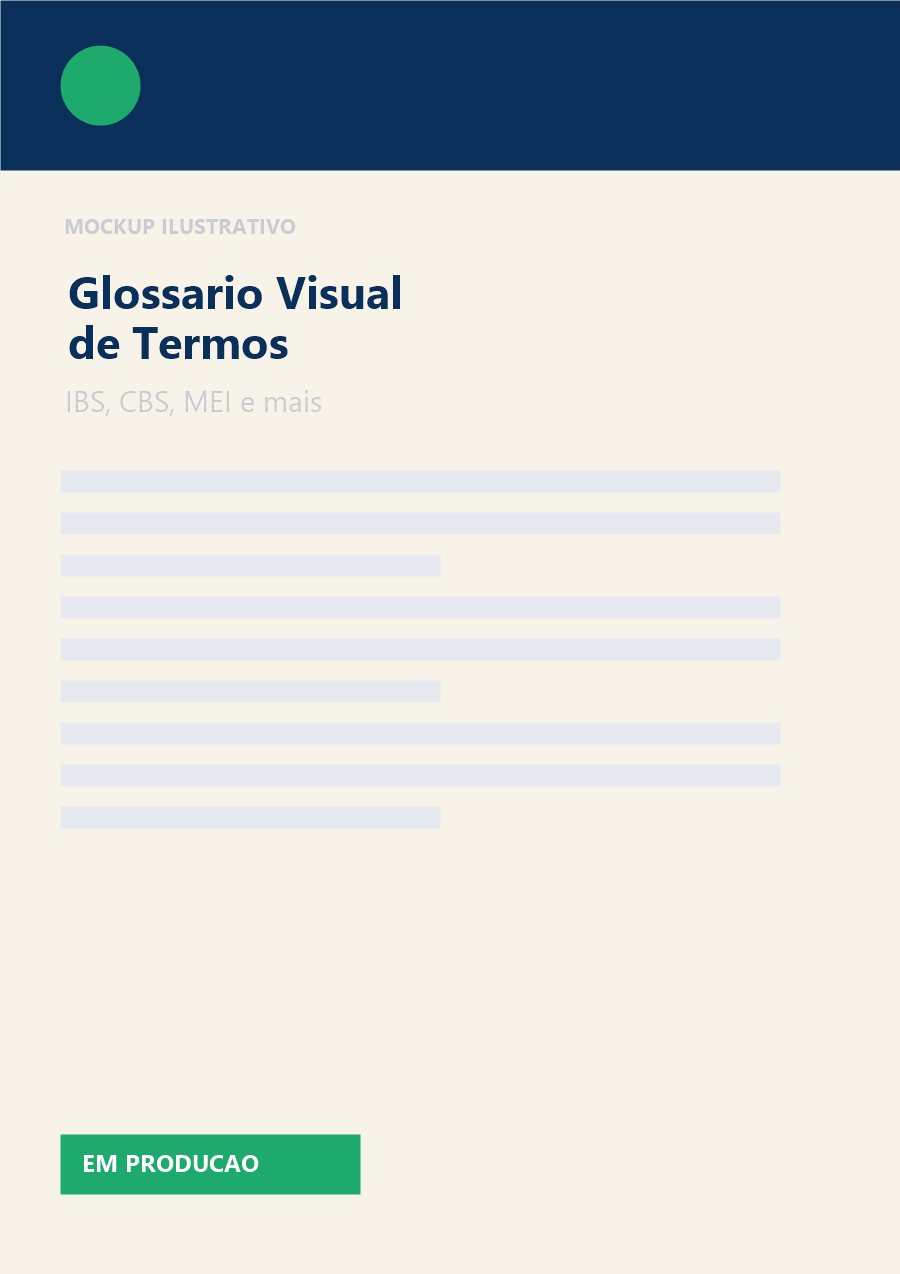
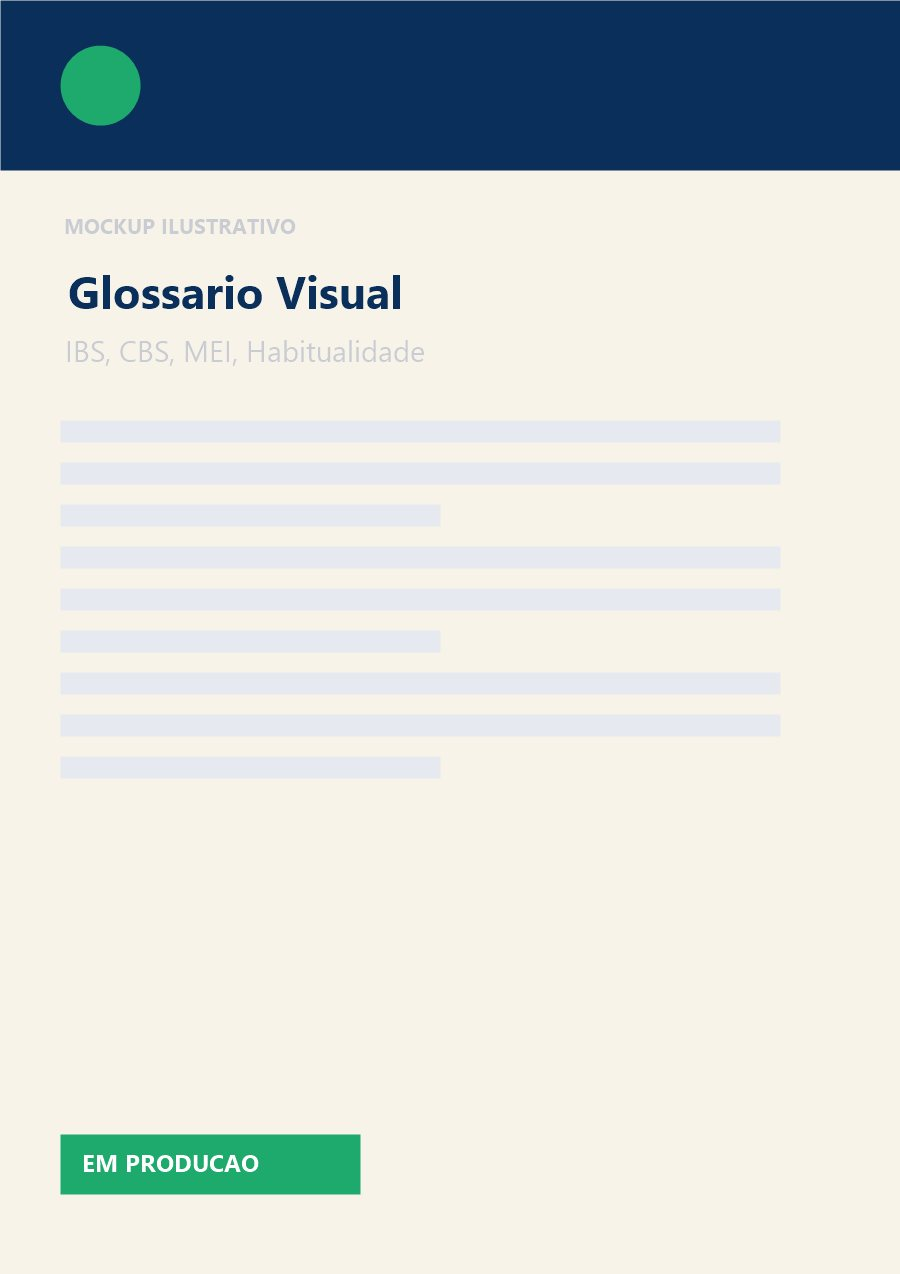
Ground site copy in the real CNPJ Técnico product
Found the live product at guia-cnp-jtecnico.vercel.app — an
interactive web guide (organograma, live checklist, timeline,
glossary, impact simulator, comparison table, per-profession
breakdown, FAQ), not a static PDF. It has no real photos to reuse
(only a 192px app icon; everything is HTML/CSS/JS), so instead of
copying images, aligned all site copy with its actual accurate
content and expanded the bonus lineup from the earlier 5-item draft
to the real 7 bonuses it ships:
Checklist, Linha do Tempo, Glossário, Simulador de Impacto,
Comparativo Pessoa Física x CNPJ Técnico, O Que Muda por Profissão,
20 Perguntas Frequentes.

Rewrote hero (precise criteria: R$40.500/ano, habitualidade,
independent of profession, Art. 59 da LC 214/2025), added the
"📅 Prazo oficial" pill (light style nod to the reference site,
existing palette), features, audience personas (added médicos,
personal trainers, quem aluga imóveis — dropped the inaccurate "MEI
perto do limite" card since MEI is explicitly exempt), core-guide
summary (now the 5-point organograma), full bonus section (headline
+ kit list + 7 grid cards, reusing 5 placeholder images across 7
slots per "don't use too many images"), pricing checklist, sources
citation (Comitê Gestor do IBS), FAQ, testimonials, and the two
leftover "planilha de enquadramento" mentions renamed to "simulador
de impacto" to match the real bonus name. Regenerated the 6
placeholder mockups with accurate titles.

Changed region(s): [[0.0622, 0.2449, 0.3422, 0.3367], [0.3733, 0.2755, 0.4356, 0.3061]]

diff --git a/index.html b/index.html
@@ -327,9 +327,10 @@
 <section class="hero">
   <div class="wrap hero-grid">
     <div class="hero-intro">
-      <span class="eyebrow">Guia para autônomos e prestadores de serviço · CNPJ Técnico</span>
-      <h1>Guia Fácil do CNPJ Técnico <span>descubra se você precisa se cadastrar antes de 1º de janeiro de 2027</span></h1>
-      <p class="lead">A Reforma Tributária criou um novo cadastro simplificado da Receita Federal, o "CNPJ Técnico". Se você trabalha por conta própria e presta serviço, pode ser que precise se cadastrar — e o prazo já tem data marcada. Este guia explica quem precisa, quando e como funciona, sem juridiquês.</p>
+      <span class="eyebrow">Reforma Tributária · Edição simplificada</span>
+      <h1>Guia Fácil do CNPJ Técnico <span>descubra se você precisa se cadastrar, quando isso vira obrigatório e o que muda na prática</span></h1>
+      <p class="lead">A profissão não importa: vale pra médico, personal trainer, motorista de app, revendedor ou quem aluga mais de um imóvel. O critério real é ser contribuinte de IBS/CBS com atividade habitual acima de R$ 40.500/ano. Este guia mostra se isso é você — sem juridiquês.</p>
+      <span class="eyebrow" style="background:rgba(245,165,36,.14);color:#8A5A00;margin-top:14px;">📅 Prazo oficial: 1º de janeiro de 2027</span>
     </div>
     <div class="hero-visual">
       <div class="hero-visual-inner">
@@ -340,9 +341,9 @@
     </div>
     <div class="hero-rest">
       <ul class="hero-points">
-        <li><svg width="18" height="18" viewBox="0 0 24 24" fill="none"><circle cx="12" cy="12" r="12" fill="#1FAA6D"/><path d="M7 12.5l3 3 7-7" stroke="#fff" stroke-width="2" stroke-linecap="round" stroke-linejoin="round"/></svg> Checklist visual pra descobrir se você se enquadra</li>
-        <li><svg width="18" height="18" viewBox="0 0 24 24" fill="none"><circle cx="12" cy="12" r="12" fill="#1FAA6D"/><path d="M7 12.5l3 3 7-7" stroke="#fff" stroke-width="2" stroke-linecap="round" stroke-linejoin="round"/></svg> Linha do tempo com as datas oficiais da Reforma</li>
-        <li><svg width="18" height="18" viewBox="0 0 24 24" fill="none"><circle cx="12" cy="12" r="12" fill="#1FAA6D"/><path d="M7 12.5l3 3 7-7" stroke="#fff" stroke-width="2" stroke-linecap="round" stroke-linejoin="round"/></svg> Planilha pra calcular se seu faturamento passa do limite de isenção</li>
+        <li><svg width="18" height="18" viewBox="0 0 24 24" fill="none"><circle cx="12" cy="12" r="12" fill="#1FAA6D"/><path d="M7 12.5l3 3 7-7" stroke="#fff" stroke-width="2" stroke-linecap="round" stroke-linejoin="round"/></svg> Checklist "preciso ou não?" com veredito na hora</li>
+        <li><svg width="18" height="18" viewBox="0 0 24 24" fill="none"><circle cx="12" cy="12" r="12" fill="#1FAA6D"/><path d="M7 12.5l3 3 7-7" stroke="#fff" stroke-width="2" stroke-linecap="round" stroke-linejoin="round"/></svg> Linha do tempo oficial: prorrogação, cadastro e obrigatoriedade</li>
+        <li><svg width="18" height="18" viewBox="0 0 24 24" fill="none"><circle cx="12" cy="12" r="12" fill="#1FAA6D"/><path d="M7 12.5l3 3 7-7" stroke="#fff" stroke-width="2" stroke-linecap="round" stroke-linejoin="round"/></svg> Simulador de impacto pra ver quanto isso pode custar pra você</li>
       </ul>
       <div class="hero-actions">
         <a href="#planos" class="btn btn-primary">Quero acessar o material →</a>
@@ -370,7 +371,7 @@
         <button class="gallery-item" data-full="img/ph-checklist.jpg"><img src="img/ph-checklist.jpg" alt="Mockup ilustrativo: Checklist Preciso ou não do CNPJ Técnico" loading="lazy"><span>Checklist</span></button>
         <button class="gallery-item" data-full="img/ph-linha-tempo.jpg"><img src="img/ph-linha-tempo.jpg" alt="Mockup ilustrativo: Linha do Tempo da Reforma" loading="lazy"><span>Linha do tempo</span></button>
         <button class="gallery-item" data-full="img/ph-glossario.jpg"><img src="img/ph-glossario.jpg" alt="Mockup ilustrativo: Glossário Visual de Termos" loading="lazy"><span>Glossário visual</span></button>
-        <button class="gallery-item" data-full="img/ph-planilha.jpg"><img src="img/ph-planilha.jpg" alt="Mockup ilustrativo: Planilha de Enquadramento" loading="lazy"><span>Planilha de enquadramento</span></button>
+        <button class="gallery-item" data-full="img/ph-planilha.jpg"><img src="img/ph-planilha.jpg" alt="Mockup ilustrativo: Simulador de Impacto" loading="lazy"><span>Simulador de impacto</span></button>
         <button class="gallery-item" data-full="img/ph-comparativo.jpg"><img src="img/ph-comparativo.jpg" alt="Mockup ilustrativo: Comparativo Pessoa Física x CNPJ Técnico" loading="lazy"><span>Comparativo</span></button>
       </div>
       <button class="car-nav next" id="carNext" aria-label="Próximo">›</button>
@@ -403,8 +404,8 @@
       </div>
       <div class="feat-card">
         <div class="feat-icon"><svg width="22" height="22" viewBox="0 0 24 24" fill="none"><rect x="4" y="4" width="7" height="7" rx="1.5" stroke="#1FAA6D" stroke-width="2"/><rect x="13" y="4" width="7" height="7" rx="1.5" stroke="#1FAA6D" stroke-width="2"/><rect x="4" y="13" width="7" height="7" rx="1.5" stroke="#1FAA6D" stroke-width="2"/><rect x="13" y="13" width="7" height="7" rx="1.5" stroke="#1FAA6D" stroke-width="2"/></svg></div>
-        <h3>Planilha de enquadramento</h3>
-        <p>Calcule se seu faturamento ultrapassa o limite de isenção de R$ 40,5 mil/ano.</p>
+        <h3>Simulador de impacto</h3>
+        <p>Informe seu faturamento e veja se você se enquadra e quanto isso pode custar.</p>
       </div>
       <div class="feat-card">
         <div class="feat-icon"><svg width="22" height="22" viewBox="0 0 24 24" fill="none"><path d="M12 2l3 6 6 1-4.5 4 1 6-5.5-3-5.5 3 1-6L3 9l6-1 3-6z" stroke="#1FAA6D" stroke-width="1.6" stroke-linejoin="round"/></svg></div>
@@ -426,7 +427,7 @@
           <div class="sample-note">💡 Esta é uma prévia ilustrativa do material. O guia final está em produção e as páginas reais serão publicadas em breve.</div>
         </div>
         <div class="sample-visual">
-          <img src="img/ph-checklist.jpg" alt="Mockup ilustrativo: Checklist Preciso ou não do CNPJ Técnico" loading="lazy" style="border-radius:10px;">
+          <img src="img/ph-capa.jpg" alt="Mockup ilustrativo: organograma O que é o CNPJ Técnico" loading="lazy" style="border-radius:10px;">
         </div>
       </div>
     </div>
@@ -441,11 +442,11 @@
     </div>
     <div class="who-grid">
       <div class="who-card"><h3>🚗 Motoristas e entregadores de app</h3><p>Entender se a renda por aplicativo entra na obrigatoriedade do CNPJ Técnico.</p></div>
-      <div class="who-card"><h3>💻 Freelancers e prestadores de serviço</h3><p>Saber se precisa se formalizar antes do prazo de janeiro de 2027.</p></div>
+      <div class="who-card"><h3>🩺 Médicos e outros profissionais liberais</h3><p>Saber se atendimento particular avulso passa a exigir o novo cadastro.</p></div>
+      <div class="who-card"><h3>💪 Personal trainers e criadores de conteúdo</h3><p>A categoria com maior risco de ser pega de surpresa — descubra antes de novembro.</p></div>
+      <div class="who-card"><h3>🏠 Quem aluga mais de um imóvel</h3><p>Entender se o total recebido de aluguel entra no critério da Receita.</p></div>
       <div class="who-card"><h3>📄 Quem recebe por carnê-leão</h3><p>Descobrir se compensa continuar pessoa física ou migrar pro cadastro novo.</p></div>
-      <div class="who-card"><h3>🏪 MEI perto do limite de faturamento</h3><p>Calcular se o faturamento já ultrapassa a faixa de isenção.</p></div>
-      <div class="who-card"><h3>🧾 Autônomos sem contador fixo</h3><p>Entender o básico antes de precisar pagar por uma consultoria.</p></div>
-      <div class="who-card"><h3>📅 Quem não quer ser pego de surpresa</h3><p>Saber com antecedência o que muda antes do prazo chegar.</p></div>
+      <div class="who-card"><h3>📅 Quem não quer ser pego de surpresa</h3><p>Saber com antecedência o que muda antes do prazo de janeiro de 2027.</p></div>
     </div>
   </div>
 </section>
@@ -454,18 +455,17 @@
   <div class="wrap">
     <div class="deliver">
       <div class="sec-head" style="margin-bottom:28px;">
-        <span class="eyebrow">Conteúdo principal do guia</span>
-        <h2>Tudo o que vem no Guia Fácil do CNPJ Técnico</h2>
+        <span class="eyebrow">Conteúdo principal · Página 01</span>
+        <h2>O que é o CNPJ Técnico, explicado em mapa mental</h2>
       </div>
       <ul class="deliver-list">
-        <li>✅ O que é o CNPJ Técnico e por que ele existe</li>
-        <li>✅ Quem precisa se cadastrar</li>
-        <li>✅ O prazo oficial: 1º de janeiro de 2027</li>
-        <li>✅ Como funciona o cadastro simplificado da Receita Federal</li>
-        <li>✅ O limite de isenção de R$ 40,5 mil por ano</li>
-        <li>✅ O que muda em relação a continuar pessoa física</li>
-        <li>✅ Passo a passo pra entender se você se enquadra</li>
-        <li>✅ Termos técnicos explicados em linguagem simples</li>
+        <li>✅ O que é: cadastro simplificado pra emitir nota, não abrir empresa</li>
+        <li>✅ Quem precisa: contribuinte de IBS/CBS acima do limite do nanoempreendedor</li>
+        <li>✅ Quando: obrigatoriedade a partir de 1º de janeiro de 2027</li>
+        <li>✅ Como se cadastra: sistema estilo MEI, a partir de nov/2026</li>
+        <li>✅ O que não muda: continua sendo pessoa física, não vira empresa</li>
+        <li>✅ Quem fica de fora: nanoempreendedores, CLT, aposentados, investidores</li>
+        <li>✅ Base legal: Art. 59 da LC 214/2025</li>
       </ul>
     </div>
   </div>
@@ -476,62 +476,72 @@
     <div class="sec-head">
       <span class="eyebrow">Bônus inclusos no plano principal</span>
       <h2>Ferramentas prontas pra descobrir sua situação</h2>
-      <p>Checklist, linha do tempo, glossário, planilha e comparativo — sem juridiquês, pensados pra quem quer resposta rápida.</p>
+      <p>Checklist, linha do tempo, glossário, simulador, comparativo e mais — sem juridiquês, pensados pra quem quer resposta rápida.</p>
     </div>
 
     <div class="bonus-hero">
-      <div class="bonus-hero-img"><img src="img/ph-capa.jpg" alt="Mockup ilustrativo: kit de bônus do Guia Fácil do CNPJ Técnico" loading="lazy"></div>
+      <div class="bonus-hero-img"><img src="img/ph-capa.jpg" alt="Mockup ilustrativo: organograma O que é o CNPJ Técnico" loading="lazy"></div>
       <div class="bonus-hero-body">
         <span class="bonus-hero-tag">BÔNUS PRINCIPAL</span>
         <h3>Kit completo pra descobrir sua situação</h3>
         <p>Tudo o que você precisa pra saber se se enquadra, quando o prazo chega e o que muda, sem depender de explicação de terceiros.</p>
         <ul class="bonus-hero-list">
-          <li>✅ Checklist "Preciso ou não do CNPJ Técnico?"</li>
-          <li>✅ Linha do Tempo da Reforma com as datas oficiais</li>
+          <li>✅ Checklist "Preciso ou não do CNPJ Técnico?" com veredito na hora</li>
+          <li>✅ Linha do Tempo oficial (prorrogação, cadastro e obrigatoriedade)</li>
           <li>✅ Glossário Visual de Termos</li>
-          <li>✅ Planilha de Enquadramento (limite de R$ 40,5 mil/ano)</li>
+          <li>✅ Simulador de Impacto — quanto isso pode custar pra você</li>
           <li>✅ Comparativo Pessoa Física x CNPJ Técnico</li>
+          <li>✅ O que muda por profissão</li>
+          <li>✅ 20 perguntas frequentes respondidas</li>
         </ul>
-        <span class="bonus-value" style="font-size:14px;">Kit avulso equivalente: R$67 — <strong style="color:var(--green-dark);">grátis no Plano Principal</strong></span>
+        <span class="bonus-value" style="font-size:14px;">Kit avulso equivalente: R$189 — <strong style="color:var(--green-dark);">grátis no Plano Principal</strong></span>
       </div>
     </div>
 
     <div class="bonus-peek">
       <button class="gallery-item" data-full="img/ph-checklist.jpg"><img src="img/ph-checklist.jpg" alt="Mockup ilustrativo: Checklist Preciso ou não do CNPJ Técnico" loading="lazy"><span>Checklist</span></button>
-      <button class="gallery-item" data-full="img/ph-linha-tempo.jpg"><img src="img/ph-linha-tempo.jpg" alt="Mockup ilustrativo: Linha do Tempo da Reforma" loading="lazy"><span>Linha do tempo</span></button>
-      <button class="gallery-item" data-full="img/ph-glossario.jpg"><img src="img/ph-glossario.jpg" alt="Mockup ilustrativo: Glossário Visual de Termos" loading="lazy"><span>Glossário visual</span></button>
-      <button class="gallery-item" data-full="img/ph-planilha.jpg"><img src="img/ph-planilha.jpg" alt="Mockup ilustrativo: Planilha de Enquadramento" loading="lazy"><span>Planilha</span></button>
+      <button class="gallery-item" data-full="img/ph-linha-tempo.jpg"><img src="img/ph-linha-tempo.jpg" alt="Mockup ilustrativo: Linha do Tempo oficial" loading="lazy"><span>Linha do tempo</span></button>
+      <button class="gallery-item" data-full="img/ph-glossario.jpg"><img src="img/ph-glossario.jpg" alt="Mockup ilustrativo: Glossário Visual" loading="lazy"><span>Glossário visual</span></button>
+      <button class="gallery-item" data-full="img/ph-planilha.jpg"><img src="img/ph-planilha.jpg" alt="Mockup ilustrativo: Simulador de Impacto" loading="lazy"><span>Simulador</span></button>
     </div>
 
     <div class="sec-head" style="margin:36px 0 24px;">
-      <span class="eyebrow">+ 5 bônus exclusivos</span>
+      <span class="eyebrow">+ 7 bônus exclusivos</span>
       <h3 style="font-size:20px;color:var(--navy);margin-top:10px;">E ainda vêm junto no Plano Principal</h3>
     </div>
     <div class="bonus-grid">
       <div class="bonus-card">
         <div class="bonus-card-img"><img src="img/ph-checklist.jpg" alt="Mockup ilustrativo: Checklist" loading="lazy"></div>
-        <div><h3>Bônus #1 — Checklist "Preciso ou Não do CNPJ Técnico?"</h3><p>Um checklist visual simples pra você descobrir se se enquadra na obrigatoriedade.</p><span class="bonus-value">Valor: R$27 GRÁTIS</span></div>
+        <div><h3>Bônus #1 — Checklist "Preciso ou Não do CNPJ Técnico?"</h3><p>Marque o que se aplica a você — o veredito muda em tempo real conforme você marca as caixas.</p><span class="bonus-value">Valor: R$27 GRÁTIS</span></div>
       </div>
       <div class="bonus-card">
-        <div class="bonus-card-img"><img src="img/ph-linha-tempo.jpg" alt="Mockup ilustrativo: Linha do Tempo da Reforma" loading="lazy"></div>
-        <div><h3>Bônus #2 — Linha do Tempo da Reforma</h3><p>Datas oficiais organizadas visualmente: prorrogação, lançamento do cadastro simplificado e obrigatoriedade.</p><span class="bonus-value">Valor: R$27 GRÁTIS</span></div>
+        <div class="bonus-card-img"><img src="img/ph-linha-tempo.jpg" alt="Mockup ilustrativo: Linha do Tempo oficial" loading="lazy"></div>
+        <div><h3>Bônus #2 — Linha do Tempo Oficial</h3><p>As datas que realmente importam: prorrogação, cadastro simplificado e obrigatoriedade.</p><span class="bonus-value">Valor: R$27 GRÁTIS</span></div>
       </div>
       <div class="bonus-card">
-        <div class="bonus-card-img"><img src="img/ph-glossario.jpg" alt="Mockup ilustrativo: Glossário Visual de Termos" loading="lazy"></div>
-        <div><h3>Bônus #3 — Glossário Visual de Termos</h3><p>Tradução simples de termos técnicos: IBS, CBS, MEI, carnê-leão, documento fiscal eletrônico.</p><span class="bonus-value">Valor: R$27 GRÁTIS</span></div>
+        <div class="bonus-card-img"><img src="img/ph-glossario.jpg" alt="Mockup ilustrativo: Glossário Visual" loading="lazy"></div>
+        <div><h3>Bônus #3 — Glossário Visual</h3><p>Os termos que mais aparecem — IBS, CBS, MEI, carnê-leão, habitualidade — traduzidos sem juridiquês.</p><span class="bonus-value">Valor: R$27 GRÁTIS</span></div>
       </div>
       <div class="bonus-card">
-        <div class="bonus-card-img"><img src="img/ph-planilha.jpg" alt="Mockup ilustrativo: Planilha de Enquadramento" loading="lazy"></div>
-        <div><h3>Bônus #4 — Planilha de Enquadramento</h3><p>Planilha simples pra calcular se seu faturamento ultrapassa o limite de isenção de R$ 40,5 mil/ano.</p><span class="bonus-value">Valor: R$27 GRÁTIS</span></div>
+        <div class="bonus-card-img"><img src="img/ph-planilha.jpg" alt="Mockup ilustrativo: Simulador de Impacto" loading="lazy"></div>
+        <div><h3>Bônus #4 — Simulador de Impacto</h3><p>Informe quanto você fatura por mês e veja se se enquadra e quanto isso pode custar.</p><span class="bonus-value">Valor: R$27 GRÁTIS</span></div>
       </div>
       <div class="bonus-card">
         <div class="bonus-card-img"><img src="img/ph-comparativo.jpg" alt="Mockup ilustrativo: Comparativo Pessoa Física x CNPJ Técnico" loading="lazy"></div>
-        <div><h3>Bônus #5 — Comparativo Pessoa Física x CNPJ Técnico</h3><p>Tabela visual com as diferenças de tributação entre continuar pessoa física ou migrar.</p><span class="bonus-value">Valor: R$27 GRÁTIS</span></div>
+        <div><h3>Bônus #5 — Pessoa Física x CNPJ Técnico</h3><p>O que muda na prática: emissão de documento fiscal, tributação e complexidade do cadastro.</p><span class="bonus-value">Valor: R$27 GRÁTIS</span></div>
+      </div>
+      <div class="bonus-card">
+        <div class="bonus-card-img"><img src="img/ph-checklist.jpg" alt="Mockup ilustrativo: O que muda por profissão" loading="lazy"></div>
+        <div><h3>Bônus #6 — O Que Muda por Profissão</h3><p>Médicos, advogados, engenheiros, consultores e quem aluga imóveis — como a regra aparece na sua rotina.</p><span class="bonus-value">Valor: R$27 GRÁTIS</span></div>
+      </div>
+      <div class="bonus-card">
+        <div class="bonus-card-img"><img src="img/ph-glossario.jpg" alt="Mockup ilustrativo: Perguntas Frequentes" loading="lazy"></div>
+        <div><h3>Bônus #7 — 20 Perguntas Frequentes Respondidas</h3><p>"Vou pagar mais imposto?", "preciso de contador agora?", "e se eu não me cadastrar a tempo?" e mais.</p><span class="bonus-value">Valor: R$27 GRÁTIS</span></div>
       </div>
     </div>
     <div class="bonus-total">
       <span>Valor somado de todos os bônus:</span>
-      <strong>R$135,00 — inclusos sem custo extra no Plano Principal</strong>
+      <strong>R$189,00 — inclusos sem custo extra no Plano Principal</strong>
     </div>
   </div>
 </section>
@@ -564,17 +574,17 @@
         <div class="price-now">R$29,90</div>
         <div class="price-save">economia de R$40</div>
         <ul class="price-list price-list-full">
-          <li>✅ Guia Fácil do CNPJ Técnico</li>
-          <li>✅ O que é o CNPJ Técnico e por que ele existe</li>
-          <li>✅ Quem precisa se cadastrar</li>
+          <li>✅ Guia Fácil do CNPJ Técnico (organograma completo)</li>
+          <li>✅ Quem precisa se cadastrar e quem fica de fora</li>
           <li>✅ O prazo oficial: 1º de janeiro de 2027</li>
           <li>✅ Como funciona o cadastro simplificado da Receita Federal</li>
-          <li>✅ O que muda em relação a continuar pessoa física</li>
-          <li>✅ <strong>Checklist "Preciso ou Não do CNPJ Técnico?"</strong> — descubra se você se enquadra na obrigatoriedade</li>
-          <li>✅ <strong>Linha do Tempo da Reforma</strong> — datas oficiais organizadas visualmente</li>
-          <li>✅ <strong>Glossário Visual de Termos</strong> — IBS, CBS, MEI, carnê-leão, documento fiscal eletrônico</li>
-          <li>✅ <strong>Planilha de Enquadramento</strong> — calcule se seu faturamento passa do limite de isenção de R$ 40,5 mil/ano</li>
-          <li>✅ <strong>Comparativo Pessoa Física x CNPJ Técnico</strong> — diferenças de tributação lado a lado</li>
+          <li>✅ <strong>Checklist "Preciso ou Não do CNPJ Técnico?"</strong> — veredito em tempo real</li>
+          <li>✅ <strong>Linha do Tempo Oficial</strong> — prorrogação, cadastro e obrigatoriedade</li>
+          <li>✅ <strong>Glossário Visual</strong> — IBS, CBS, MEI, carnê-leão, habitualidade</li>
+          <li>✅ <strong>Simulador de Impacto</strong> — quanto isso pode custar pra você</li>
+          <li>✅ <strong>Pessoa Física x CNPJ Técnico</strong> — comparativo lado a lado</li>
+          <li>✅ <strong>O Que Muda por Profissão</strong> — médicos, advogados, engenheiros e mais</li>
+          <li>✅ <strong>20 Perguntas Frequentes Respondidas</strong></li>
         </ul>
         <a href="#" class="btn btn-primary btn-block btn-pulse" id="btnCompleto">Quero o plano principal →</a>
       </div>
@@ -597,7 +607,7 @@
       </div>
       <div class="test-card">
         <div class="stars">★★★★★</div>
-        <p class="test-quote">"A planilha de enquadramento me poupou de pagar uma consulta só pra saber se meu faturamento passa do limite. Já vi que preciso me organizar."</p>
+        <p class="test-quote">"O simulador de impacto me poupou de pagar uma consulta só pra saber se meu faturamento passa do limite. Já vi que preciso me organizar."</p>
         <div class="test-who"><div class="avatar">LR</div><div><strong>Larissa R.</strong><span>Designer freelancer</span></div></div>
       </div>
       <div class="test-card">
@@ -628,7 +638,7 @@
       <div>
         <span class="eyebrow">Transparência</span>
         <h3 style="margin-top:12px;color:var(--navy);font-size:19px;">Cada página cita a fonte oficial usada</h3>
-        <p class="muted" style="margin-top:10px;font-size:14.5px;">O material é baseado na Lei Complementar nº 214/2025 e nas normas da Receita Federal sobre o cadastro simplificado. Nenhum conteúdo é apenas "achismo de redes sociais" — a base legal resumida fica no material, para você conferir e confirmar o prazo exato antes de decidir.</p>
+        <p class="muted" style="margin-top:10px;font-size:14.5px;">O material é baseado no Art. 59 da LC nº 214/2025 e nas orientações da Receita Federal e do Comitê Gestor do IBS sobre o cadastro simplificado. Nenhum conteúdo é apenas "achismo de redes sociais" — a base legal resumida fica no material, para você conferir e confirmar o prazo exato antes de decidir.</p>
       </div>
     </div>
   </div>
@@ -643,7 +653,7 @@
     <div class="steps">
       <div class="step-card"><div class="step-num">1</div><h3>Conclua a compra</h3><p>Pagamento via cartão ou Pix, com liberação automática.</p></div>
       <div class="step-card"><div class="step-num">2</div><h3>Entre na área de membros</h3><p>Você recebe o acesso por e-mail e WhatsApp.</p></div>
-      <div class="step-card"><div class="step-num">3</div><h3>Baixe os arquivos</h3><p>Checklist, linha do tempo, glossário e bônus organizados por tema.</p></div>
+      <div class="step-card"><div class="step-num">3</div><h3>Acesse o material</h3><p>Checklist, linha do tempo, glossário e bônus organizados por tema.</p></div>
       <div class="step-card"><div class="step-num">4</div><h3>Estude ou imprima</h3><p>Use no celular, tablet ou impresso — como preferir.</p></div>
     </div>
   </div>
@@ -666,11 +676,11 @@
       </div>
       <div class="faq-item">
         <button class="faq-q">Quem precisa se cadastrar no CNPJ Técnico? <svg class="chevron" width="16" height="16" viewBox="0 0 24 24" fill="none"><path d="M6 9l6 6 6-6" stroke="#0B2F5B" stroke-width="2" stroke-linecap="round"/></svg></button>
-        <div class="faq-a"><div class="faq-a-inner">Depende do seu enquadramento e faturamento. O guia traz um checklist e uma planilha de enquadramento pra você descobrir isso em minutos, sem precisar de consultoria.</div></div>
+        <div class="faq-a"><div class="faq-a-inner">Quem é contribuinte de IBS/CBS com atividade econômica habitual acima de R$ 40.500/ano — a profissão não importa. O guia traz um checklist e um simulador pra você descobrir isso em minutos, sem precisar de consultoria.</div></div>
       </div>
       <div class="faq-item">
         <button class="faq-q">Vou receber os bônus também? <svg class="chevron" width="16" height="16" viewBox="0 0 24 24" fill="none"><path d="M6 9l6 6 6-6" stroke="#0B2F5B" stroke-width="2" stroke-linecap="round"/></svg></button>
-        <div class="faq-a"><div class="faq-a-inner">Os 5 bônus (checklist, linha do tempo, glossário, planilha e comparativo) estão inclusos apenas no Plano Principal. No Plano Básico você recebe somente o guia principal.</div></div>
+        <div class="faq-a"><div class="faq-a-inner">Os 7 bônus (checklist, linha do tempo, glossário, simulador, comparativo, por profissão e as 20 perguntas frequentes) estão inclusos apenas no Plano Principal. No Plano Básico você recebe somente o guia principal.</div></div>
       </div>
       <div class="faq-item">
         <button class="faq-q">O material será atualizado? <svg class="chevron" width="16" height="16" viewBox="0 0 24 24" fill="none"><path d="M6 9l6 6 6-6" stroke="#0B2F5B" stroke-width="2" stroke-linecap="round"/></svg></button>
@@ -692,7 +702,7 @@
   <div class="wrap">
     <div class="final-cta">
       <h2>Não deixe pra descobrir sobre o CNPJ Técnico depois do prazo</h2>
-      <p>Tenha o checklist, a linha do tempo e a planilha prontos pra saber sua situação agora.</p>
+      <p>Tenha o checklist, a linha do tempo e o simulador prontos pra saber sua situação agora.</p>
       <a href="#planos" class="btn btn-primary">Ver planos e garantir acesso →</a>
     </div>
   </div>
@@ -738,7 +748,7 @@
     <button class="lightbox-close" id="upsellClose" aria-label="Fechar" style="position:absolute;top:14px;right:14px;background:var(--bg);color:var(--navy);border:1px solid var(--line);">✕</button>
     <span class="upsell-tag">ESPERA — OFERTA ÚNICA</span>
     <h3>Por só mais R$19,90 você leva tudo</h3>
-    <p>Você escolheu o guia avulso por <strong>R$10</strong>. Mas só agora, antes de continuar, dá pra levar o <strong>Plano Principal</strong> (o guia + os 5 bônus) por apenas:</p>
+    <p>Você escolheu o guia avulso por <strong>R$10</strong>. Mas só agora, antes de continuar, dá pra levar o <strong>Plano Principal</strong> (o guia + os 7 bônus) por apenas:</p>
     <div class="upsell-price">R$29,90</div>
     <a href="#planos" class="btn btn-primary btn-block btn-pulse" id="upsellAccept">Sim, quero o Plano Principal →</a>
     <button class="upsell-decline" id="upsellDecline">Não, obrigado. Continuar só com o básico por R$10</button>
